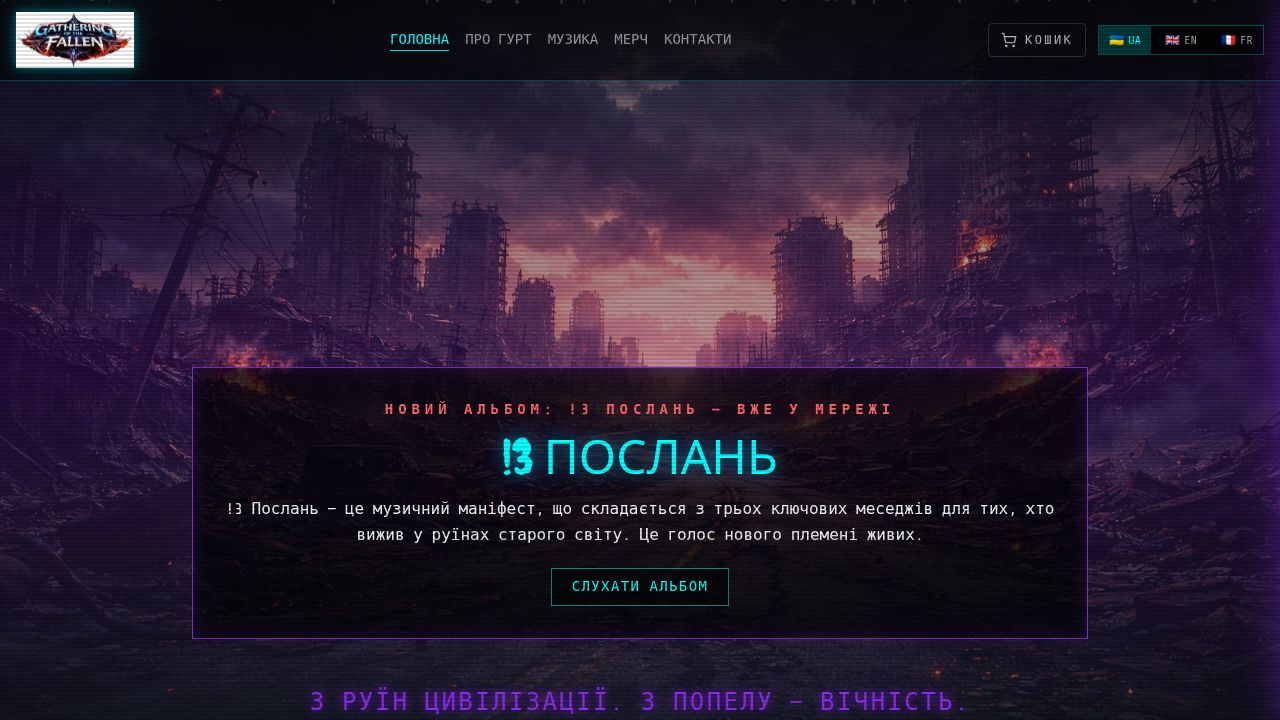
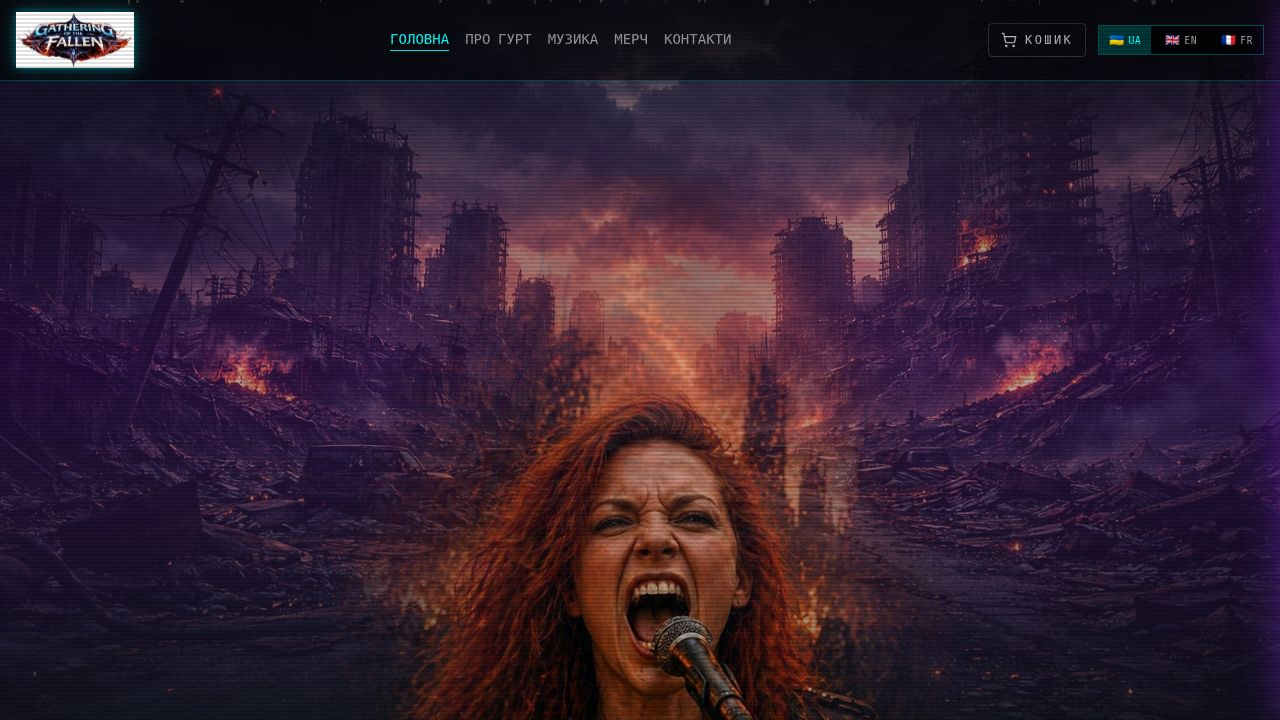
Update the main page with a larger gallery of new band photos
Replace existing band photos on the homepage with new images and increase the size of the gallery.

Replit-Commit-Author: Agent
Replit-Commit-Session-Id: 2ba71e7a-b2ae-4137-9f01-88b7f9130ab4
Replit-Commit-Checkpoint-Type: full_checkpoint
Replit-Commit-Event-Id: 4d244e6f-8e12-4e55-bf6c-e59765ad6ae4
Replit-Commit-Screenshot-Url: https://storage.googleapis.com/screenshot-production-us-central1/58f3e59c-b82b-4ef1-9eb8-012bd48b91d2/2ba71e7a-b2ae-4137-9f01-88b7f9130ab4/x3cGCBs
Replit-Helium-Checkpoint-Created: true

diff --git a/artifacts/web/src/pages/Home.tsx b/artifacts/web/src/pages/Home.tsx
@@ -3,13 +3,16 @@ import { Link } from "wouter";
 import { GlitchButton } from "@/components/GlitchButton";
 import { useT } from "@/i18n/LanguageContext";
 import logoVideo from "@assets/grok-video-4e191f5f-3c1c-4e03-97ea-bc727051f844_1778193049750.mp4";
-import groupImg from "@assets/Група_1777383007687.png";
-import oleksandrImg from "@assets/Oleksandr_1777381963172.png";
+import lineup1Img from "@assets/a33ec048-5ffc-400a-8499-f0246ed136d2_1779324411927.png";
+import lineup2Img from "@assets/b48431c4-d5c2-4651-8fba-08b27f82595e_1779324411927.png";
+import lineup3Img from "@assets/grok-image-3ba37ea6-9c2c-42f3-93a1-0da705b2bdc9_1779324411927.png";
 import merchTshirt1 from "@assets/1backt-shirt_1779322287600.png";
 import merchTshirt2 from "@assets/2frontt-shirt_1779322287600.png";
 import merchTshirt3 from "@assets/3frontt-shirt_1779322287600.png";
 import merchHoodie4 from "@assets/4backhoodie_1779322287601.png";
 import merchHoodie5 from "@assets/5backhoodie_1779322287601.png";
+
+const lineupImages = [lineup1Img, lineup2Img, lineup3Img];
 
 type Release = { title: string; type: string; date: string };
 
@@ -25,7 +28,7 @@ export default function Home() {
       <section className="relative min-h-screen flex flex-col items-center justify-center px-4 py-24">
         <motion.video
           src={logoVideo}
-          poster={groupImg}
+          poster={lineup1Img}
           autoPlay
           loop
           muted
@@ -96,24 +99,18 @@ export default function Home() {
       </section>
 
       <section className="container mx-auto px-4 py-16">
-        <h2 className="font-creepster text-4xl text-primary mb-8 border-b border-primary/20 pb-4 text-center">{t("home.bandHeading")}</h2>
-        <div className="grid grid-cols-1 md:grid-cols-2 gap-8 max-w-5xl mx-auto">
-          <div className="rusted-border overflow-hidden group no-scanlines">
-            <img
-              src={groupImg}
-              alt={t("home.groupAlt")}
-              loading="lazy"
-              className="w-full h-auto object-contain group-hover:scale-105 transition-transform duration-500"
-            />
-          </div>
-          <div className="rusted-border overflow-hidden group">
-            <img
-              src={oleksandrImg}
-              alt={t("home.oleksandrAlt")}
-              loading="lazy"
-              className="w-full h-auto object-contain group-hover:scale-105 transition-transform duration-500"
-            />
-          </div>
+        <h2 className="font-creepster text-4xl md:text-5xl text-primary mb-8 border-b border-primary/20 pb-4 text-center">{t("home.bandHeading")}</h2>
+        <div className="grid grid-cols-1 md:grid-cols-3 gap-6 md:gap-8 max-w-7xl mx-auto">
+          {lineupImages.map((src, i) => (
+            <div key={src} className={`rusted-border overflow-hidden group ${i === 0 ? "no-scanlines md:col-span-1 md:row-span-2" : ""}`}>
+              <img
+                src={src}
+                alt={t("home.groupAlt")}
+                loading="lazy"
+                className={`w-full h-full object-cover group-hover:scale-105 transition-transform duration-500 ${i === 0 ? "aspect-[4/5]" : "aspect-[4/5]"}`}
+              />
+            </div>
+          ))}
         </div>
       </section>
 
